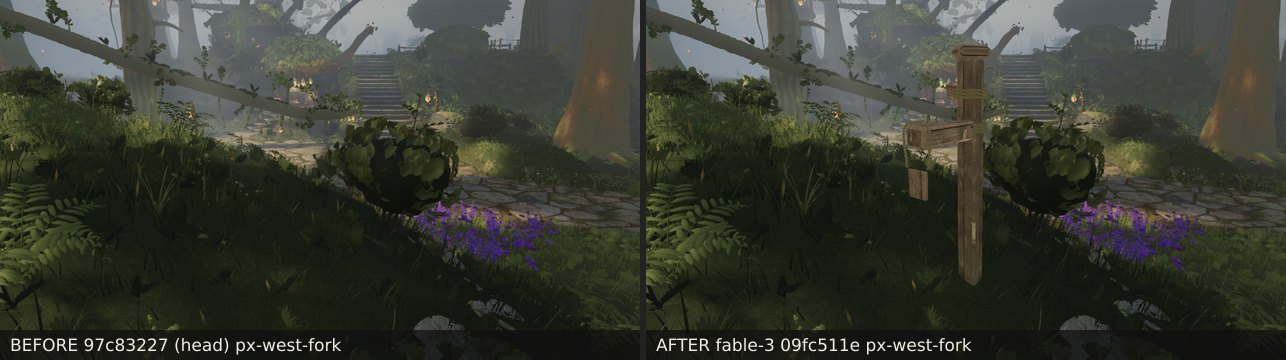
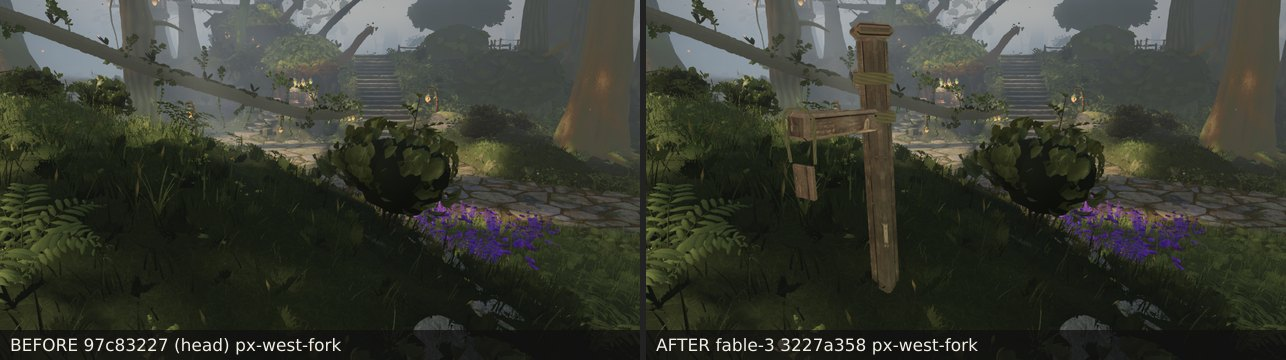
fable-3 evidence: the backside as its own culled locality — six views vs the current head pixel-identical, draws/tris equal to the head; the fork marker's final spot

Changed region(s): [[0.591, 0.0611, 0.7776, 0.825], [0.591, 0.9167, 0.7776, 0.9778]]

diff --git a/art/environment/props-fable-3/backside/README.md b/art/environment/props-fable-3/backside/README.md
@@ -1,7 +1,9 @@
 # Props lane (fable-3) — iteration 8: the plaza's backside (round-49 handoff, GOAL_MODE fable-3 #0)
 
-BEFORE = the world head `97c83227` (expansion-2 merged), AFTER = `agent/fable-3-backside`
-(`b1a07f2b` the props, `90f63fed` the `expansionCull` filter, `09fc511e` the marker moved off a bush).
+BEFORE = the world head `6d6d80f8` (expansion-2 and fable-2's W23 loaf merged), AFTER =
+`agent/fable-3-backside` @ `3227a358` (`b1a07f2b` the props, `90f63fed` the `expansionCull` filter,
+`09fc511e` / `3227a358` the marker moved off a bush and then west of C's shadow reach, and the
+backside as its own merge locality culled by `util/expansionLocality.ts`).
 Both built from clean worktrees on this VM; six views `capture.mjs --quality high --settle 12`, poses
 `broll.mjs --size 1280x720 --fps 12 --test --settle 12 --quality high` with `shots.json`. Labels burned in.
 
@@ -11,7 +13,7 @@ Both built from clean worktrees on this VM; six views `capture.mjs --quality hig
 | --- | --- | --- |
 | `heightfield.expansionCull(x, z)` on any sampled prop placement | **yes** — applied after `findSpot` as a filter (no stream re-rolls); a culled prop is skipped and listed in `audit.props.culledByExpansion` | `props/index.ts`; tests: the south bank's top and the far hut's knoll are culled, nothing placed is |
 | a crate on the deck landing (−16.6, 6.7) | **yes, beside it** — (−16.6, 6.7) is on the landing row itself (the 1.0 m slab the deck's end rests on), where a 0.6 m crate blocks the step from the flight onto the deck; the crate stands 0.9 m south-east of the slabs on the shoulder's level ground (−15.9, 5.2), with a bucket and a pot pair (−16.55, 5.25), (−17.15, 5.55), (−16.8, 4.9): stores where the walker steps off the deck | `px-west-landing.jpg`, `-crop.jpg` |
-| a signpost at the path fork (−8.9, 9.9) | **a waymarker, 1.5 m west of it** — (−8.9, 9.9) is 2 cm inside `cClip`'s 1.3 m margin (x < −8.92 at z 9.9) and 0.5 m off the south branch's disc line (culled at 0.56); the marker stands at (−10.4, 8.7): 0.8 m off the west line's discs, 2.2 m west of the margin, 1.6 m from the scatter bush at (−8.83, 8.38) that swallowed a first spot at (−9.2, 8.6). Signposts with text are structures' (`signpost.ts`); this is the clearing's `marker` kind, the long board pointing along the west line to the house | `px-west-fork.jpg` |
+| a signpost at the path fork (−8.9, 9.9) | **a waymarker, 2.1 m west of it** — (−8.9, 9.9) is 2 cm inside `cClip`'s 1.3 m margin (x < −8.92 at z 9.9) and 0.5 m off the south branch's disc line (culled at 0.56); the marker stands at (−11.0, 8.4): 0.9 m off the west line's discs, 2.5 m west of the margin, 2.2 m from the scatter bush at (−8.83, 8.38) that swallowed a first spot at (−9.2, 8.6), and far enough that even its padded sun-shadow footprint (2.4 m ESE) stays outside camera C's frustum — at (−10.4, 8.7) the `expansionLocality` sphere test had C drawing the whole backside for a 4 cm overlap. Signposts with text are structures' (`signpost.ts`); this is the clearing's `marker` kind, the long board pointing along the west line to the house | `px-west-fork.jpg` |
 | a pot by the west-house door (−19.6, 8.2) on the platform (`walkSurfaces[0].disc.y`) | **not built — it cannot stand there.** structures publish the disc at `platR = R + 0.22` and the wall ring at `R · 0.96 ± 0.2`, so the walkable ring outside the wall is `0.04 R + 0.02` = **0.156 m** at R 3.4: a squat pot (r ≥ 0.21) clips the wall or overhangs the rim, and the door gap and the deck's mouth are the walk itself. If the owner wants a pot at the door, the platform needs a wider apron there (structures) or the pot hangs (a bucket on the deck's last rail post — the posts' positions are not published) | — |
 | a rope railing along the deck | **already there** — `distantHouse.ts` builds the walkway "with posts and a sagging rope rail" (visible left of `px-west-landing`); a second rail from props would double it | `px-west-landing.jpg` |
 
@@ -19,27 +21,37 @@ All of it stands on natural ground the live and legacy heightfield views share (
 legacy view — the test now does too, `createTerrain('legacy')`), behind every fixed camera by
 pinhole and west of camera C's clipped edge; sun shadows (1.27 m ESE per m) reach x ≈ −15.3 at most.
 
+## Culling: the backside as its own locality
+
+The five props first joined the `village` merge locality; its meshes' bounding sphere then reached
+the west shoulder, camera C's frustum caught one more material (407 → 409 draws) and every frame
+carried the new triangles through both passes (+0.01–0.02 M). They now merge as a third locality,
+`backside`, shown by `util/expansionLocality.ts`'s rule — hidden beyond 60 m of the expansion box,
+or when neither the props' sphere stacks nor their sun-shadow footprints swept 1.27 m ESE per metre
+of height meet the camera's frustum — the same test the house, its flights and discs use, so they
+appear and vanish together. 13 meshes for the system (village 5, clearing 4, backside 4).
+
 ## Six fixed views (`six-views-after.jpg`)
 
 | view | before SSIM | after SSIM | Δ | pHash | draws | triangles (M) | changed px |
 | --- | --- | --- | --- | --- | --- | --- | --- |
-| A_stairs | 0.2177 | 0.2177 | 0 | same | 566 → 566 | 8.62 → 8.63 | 0 |
-| B_house | 0.2014 | 0.2014 | 0 | same | 522 → 522 | 7.78 → 7.79 | 4 |
-| C_lookback | 0.2375 | 0.2375 | 0 | same | 407 → 409 | 6.96 → 6.98 | 0 |
-| D_log | 0.2767 | 0.2767 | 0 | same | 396 → 396 | 8.01 → 8.02 | 0 |
-| E_ground | 0.2144 | 0.2144 | 0 | same | 522 → 522 | 7.78 → 7.79 | 4 |
-| F_canopy | 0.2559 | 0.2559 | 0 | same | 507 → 507 | 7.94 → 7.96 | 0 |
+| A_stairs | 0.2179 | 0.2179 | 0 | same | 566 → 566 | 8.616 → 8.616 | 0 |
+| B_house | 0.2015 | 0.2015 | 0 | same | 522 → 522 | 7.775 → 7.775 | 4 |
+| C_lookback | 0.2375 | 0.2375 | 0 | same | 407 → 407 | 6.959 → 6.959 | 0 |
+| D_log | 0.2765 | 0.2765 | 0 | same | 396 → 396 | 8.007 → 8.007 | 0 |
+| E_ground | 0.2149 | 0.2149 | 0 | same | 522 → 522 | 7.775 → 7.775 | 4 |
+| F_canopy | 0.2560 | 0.2560 | 0 | same | 507 → 507 | 7.944 → 7.944 | 0 |
 
-Pixel-identical but for 4 pixels at threshold in B/E; C gains one mesh per pass (the village
-meshes' bounding sphere now reaches the west shoulder, so a material that C's frustum missed is
-drawn — 409 draws, 6.98 M). Captured at `b1a07f2b`; `90f63fed` (the filter) and `09fc511e` (the
-marker 1.2 m along a line behind every camera) move no placement the six frames hold — the props
-audit's `placed` list is identical for every prop but the marker, and the marker is outside all six
-by pinhole at both spots. 0 console errors both sides.
+Pixel-identical but for 4 pixels at threshold in B/E; draws and triangles equal the head's to the
+third decimal — the six frames draw none of the backside in either pass. 0 console errors both
+sides. (An earlier table against the older head `97c83227` showed D changing 9917 px: that was
+fable-2's W23 loaf, merged between the two heads, not the props.)
 
 ## Tests
 
 `node src/world/props/geometry.test.mjs`: the five `west-house` props placed where authored (no
 nudge), outside all six cameras at foot and 1.8 m, west of `cClip`'s margin, on ground where the
 live and legacy views agree within 2 cm; `expansionCull` culls the bank top and the knoll and none of
-the placed props; `culledByExpansion` empty. `npm run typecheck && npm run build` green.
+the placed props; `culledByExpansion` empty; three localities, and with real cameras at the six
+viewpoints the backside and the clearing are hidden and the village drawn, from the deck landing the
+backside draws, far north everything is culled. `npm run typecheck && npm run build` green.
